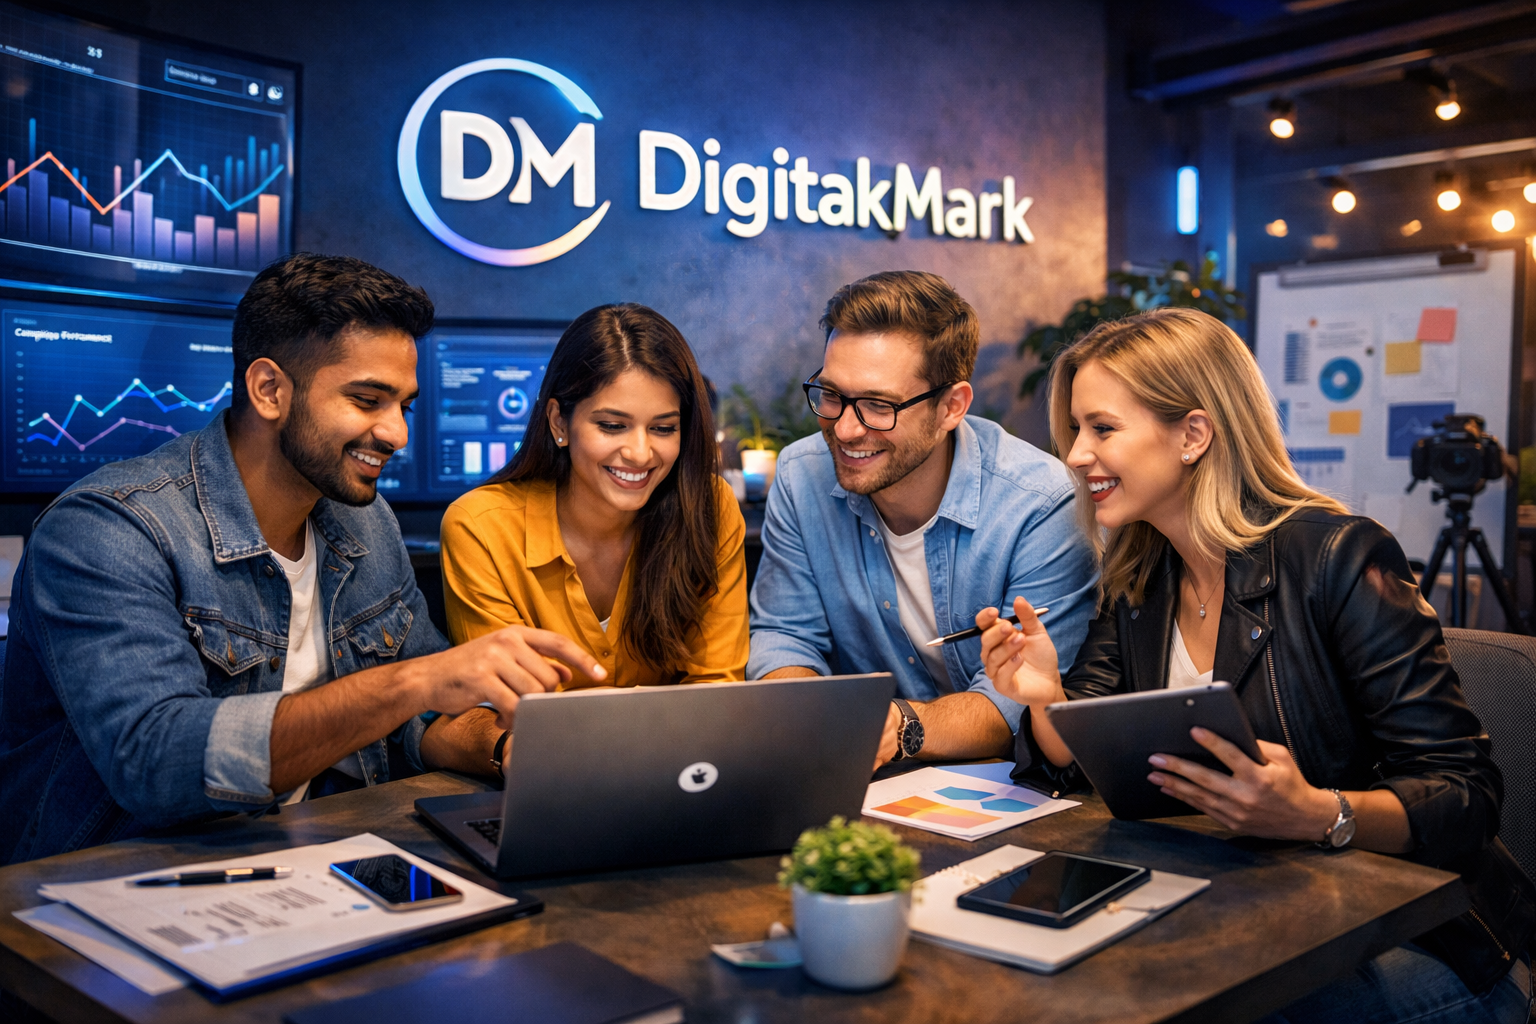
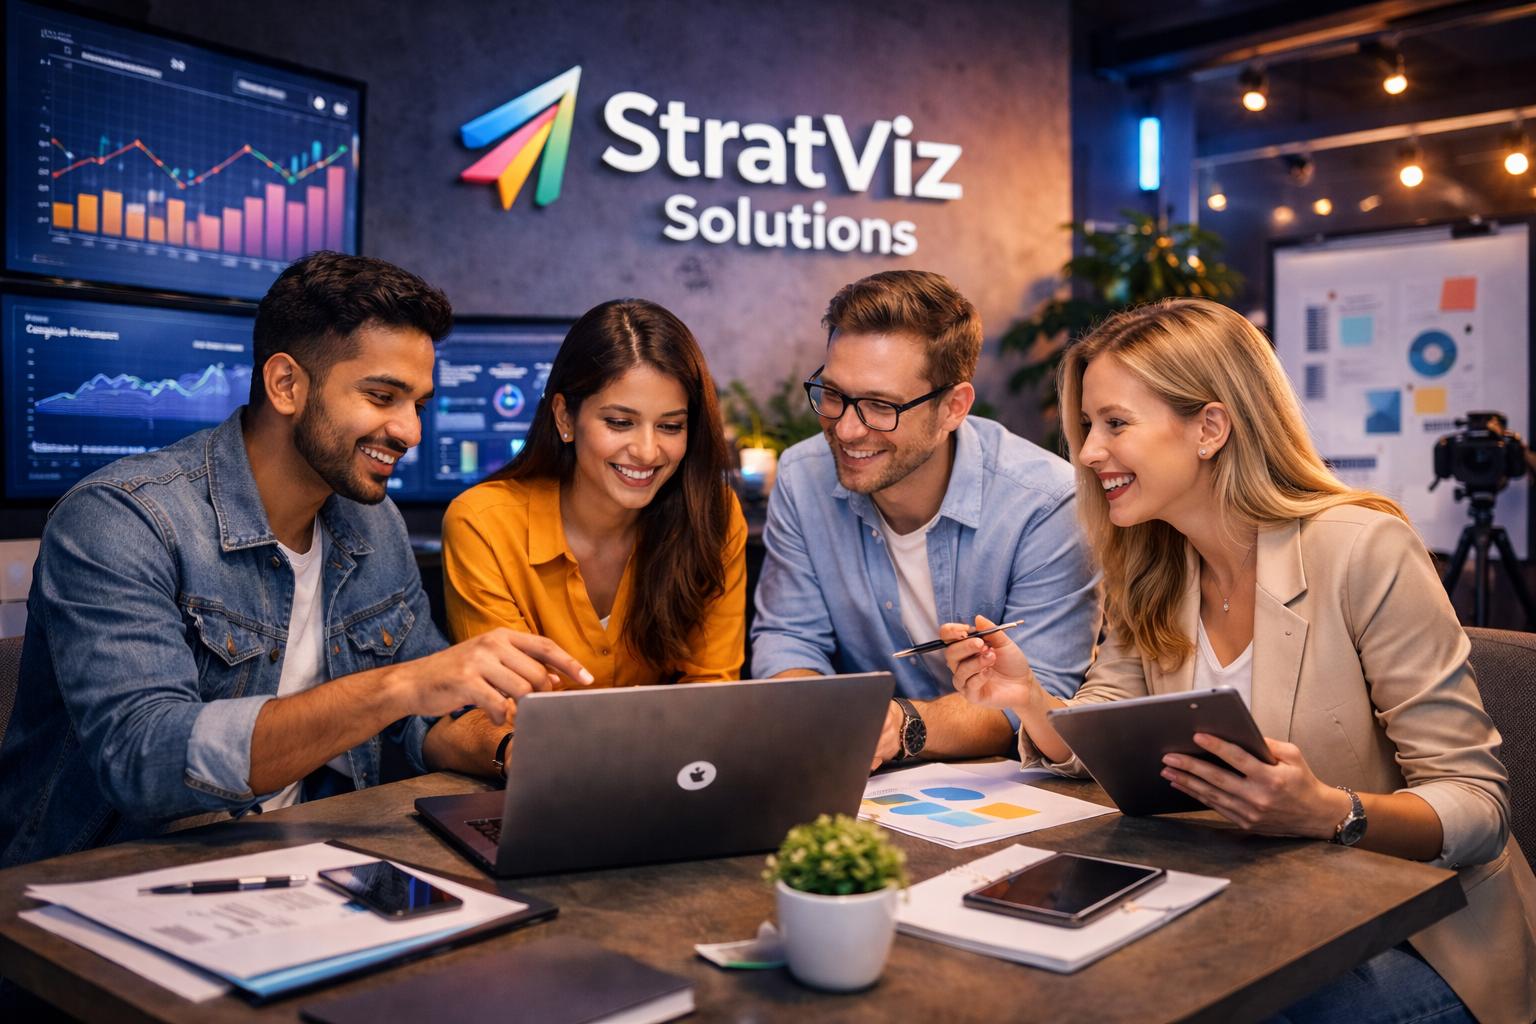
Update Image

diff --git a/src/components/Footer.jsx b/src/components/Footer.jsx
@@ -1,130 +1,159 @@
 import { motion } from "framer-motion";
 import {
-  FaInstagram,
-  FaLinkedin,
-  FaTwitter,
-  FaGithub
+    FaInstagram,
+    FaLinkedin,
+    FaFacebook,
+    FaYoutube
 } from "react-icons/fa";
 
 import {
-  HiOutlineMail,
-  HiOutlinePhone,
-  HiOutlineLocationMarker
+    HiOutlineMail,
+    HiOutlinePhone,
+    HiOutlineLocationMarker
 } from "react-icons/hi";
 
 export default function Footer() {
-  return (
-    <footer className="relative bg-black text-gray-400 pt-20 pb-10 px-6 overflow-hidden">
 
-      {/* 🔥 Background Glow */}
-      <div className="absolute inset-0 -z-10">
-        <div className="absolute top-0 left-20 w-80 h-80 bg-purple-500 opacity-20 blur-[140px] rounded-full"></div>
-        <div className="absolute bottom-0 right-20 w-80 h-80 bg-blue-500 opacity-20 blur-[140px] rounded-full"></div>
-      </div>
+    const socials = [
+        {
+            icon: FaInstagram,
+            link: "https://www.instagram.com/stratviz_solutions2026/",
+            hover: "hover:bg-gradient-to-tr from-pink-500 via-purple-500 to-yellow-500"
+        },
+        {
+            icon: FaFacebook,
+            link: "https://www.facebook.com/profile.php?id=61585329104927",
+            hover: "hover:bg-blue-600"
+        },
+        {
+            icon: FaLinkedin,
+            link: "https://www.linkedin.com/company/stratviz-solutions/posts/?feedView=all",
+            hover: "hover:bg-blue-500"
+        },
+        {
+            icon: FaYoutube,
+            link: "https://www.youtube.com/@StratvizSolutions",
+            hover: "hover:bg-red-600"
+        }
+    ];
 
-      <div className="max-w-7xl mx-auto grid md:grid-cols-4 gap-12">
+    return (
+        <footer className="relative bg-black text-gray-400 pt-20 pb-10 px-6 overflow-hidden">
 
-        {/* 🔥 Brand */}
-        <motion.div
-          initial={{ opacity: 0, y: 40 }}
-          whileInView={{ opacity: 1, y: 0 }}
-          transition={{ duration: 0.6 }}
-        >
-          <h2 className="text-white text-2xl font-bold mb-4">
-            DigitakMark
-          </h2>
+            {/* 🔥 Glow Background */}
+            <div className="absolute inset-0 -z-10">
+                <div className="absolute top-0 left-20 w-80 h-80 bg-purple-500 opacity-20 blur-[140px] rounded-full"></div>
+                <div className="absolute bottom-0 right-20 w-80 h-80 bg-blue-500 opacity-20 blur-[140px] rounded-full"></div>
+            </div>
 
-          <p className="text-sm leading-relaxed">
-            We craft high-converting websites & digital experiences that drive
-            real business growth.
-          </p>
+            <div className="max-w-7xl mx-auto grid md:grid-cols-4 gap-12">
 
-          {/* 🔥 Social Icons (INSANE HOVER) */}
-          <div className="flex gap-4 mt-6">
-            {[FaInstagram, FaLinkedin, FaTwitter, FaGithub].map((Icon, i) => (
-              <motion.a
-                key={i}
-                href="#"
-                target="_blank"
-                whileHover={{ scale: 1.2, y: -4 }}
-                whileTap={{ scale: 0.9 }}
-                className="p-3 rounded-full bg-white/10 backdrop-blur border border-white/20 hover:bg-gradient-to-r from-purple-500 to-pink-500 transition"
-              >
-                <Icon className="text-white" size={18} />
-              </motion.a>
-            ))}
-          </div>
-        </motion.div>
-
-        {/* 🔥 Quick Links */}
-        <motion.div
-          initial={{ opacity: 0, y: 40 }}
-          whileInView={{ opacity: 1, y: 0 }}
-          transition={{ duration: 0.7 }}
-        >
-          <h3 className="text-white mb-4 font-semibold">Quick Links</h3>
-          <ul className="space-y-2 text-sm">
-            {["services", "projects", "about", "contact"].map((item, i) => (
-              <li key={i}>
-                <a
-                  href={`#${item}`}
-                  className="hover:text-white transition hover:pl-1"
+                {/* 🔥 Brand */}
+                <motion.div
+                    initial={{ opacity: 0, y: 40 }}
+                    whileInView={{ opacity: 1, y: 0 }}
+                    transition={{ duration: 0.6 }}
                 >
-                  {item.charAt(0).toUpperCase() + item.slice(1)}
-                </a>
-              </li>
-            ))}
-          </ul>
-        </motion.div>
+                    <h2 className="text-white text-2xl font-bold mb-4">
+                        StratvizSolution
+                    </h2>
 
-        {/* 🔥 Services */}
-        <motion.div
-          initial={{ opacity: 0, y: 40 }}
-          whileInView={{ opacity: 1, y: 0 }}
-          transition={{ duration: 0.8 }}
-        >
-          <h3 className="text-white mb-4 font-semibold">Services</h3>
-          <ul className="space-y-2 text-sm">
-            <li>Web Development</li>
-            <li>UI/UX Design</li>
-            <li>SEO Optimization</li>
-            <li>Brand Strategy</li>
-          </ul>
-        </motion.div>
+                    <p className="text-sm leading-relaxed">
+                        We craft high-converting websites & digital experiences that drive
+                        real business growth.
+                    </p>
 
-        {/* 🔥 Contact */}
-        <motion.div
-          initial={{ opacity: 0, y: 40 }}
-          whileInView={{ opacity: 1, y: 0 }}
-          transition={{ duration: 0.9 }}
-        >
-          <h3 className="text-white mb-4 font-semibold">Contact</h3>
+                    {/* 🔥 Social Icons */}
+                    <div className="flex gap-4 mt-6">
+                        {socials.map((item, i) => {
+                            const Icon = item.icon;
+                            return (
+                                <motion.a
+                                    key={i}
+                                    href={item.link}
+                                    target="_blank"
+                                    rel="noopener noreferrer"
+                                    whileHover={{ scale: 1.2, y: -6 }}
+                                    whileTap={{ scale: 0.9 }}
+                                    className={`group p-3 rounded-full bg-white/10 backdrop-blur border border-white/20 transition duration-300 ${item.hover}`}
+                                >
+                                    <Icon className="text-white group-hover:scale-110 transition" size={18} />
+                                </motion.a>
+                            );
+                        })}
+                    </div>
+                </motion.div>
 
-          <ul className="space-y-4 text-sm">
-            <li className="flex items-center gap-2">
-              <HiOutlineMail size={18} /> info@digitakmark.com
-            </li>
-            <li className="flex items-center gap-2">
-              <HiOutlinePhone size={18} /> +91 98765 43210
-            </li>
-            <li className="flex items-center gap-2">
-              <HiOutlineLocationMarker size={18} /> India
-            </li>
-          </ul>
-        </motion.div>
-      </div>
+                {/* 🔥 Quick Links */}
+                <motion.div
+                    initial={{ opacity: 0, y: 40 }}
+                    whileInView={{ opacity: 1, y: 0 }}
+                    transition={{ duration: 0.7 }}
+                >
+                    <h3 className="text-white mb-4 font-semibold">Quick Links</h3>
+                    <ul className="space-y-2 text-sm">
+                        {["services", "projects", "about", "contact"].map((item, i) => (
+                            <li key={i}>
+                                <a
+                                    href={`#${item}`}
+                                    className="hover:text-white transition hover:pl-1"
+                                >
+                                    {item.charAt(0).toUpperCase() + item.slice(1)}
+                                </a>
+                            </li>
+                        ))}
+                    </ul>
+                </motion.div>
 
-      {/* 🔥 Divider */}
-      <div className="mt-16 border-t border-white/10"></div>
+                {/* 🔥 Services */}
+                <motion.div
+                    initial={{ opacity: 0, y: 40 }}
+                    whileInView={{ opacity: 1, y: 0 }}
+                    transition={{ duration: 0.8 }}
+                >
+                    <h3 className="text-white mb-4 font-semibold">Services</h3>
+                    <ul className="space-y-2 text-sm">
+                        <li>Web Development</li>
+                        <li>UI/UX Design</li>
+                        <li>SEO Optimization</li>
+                        <li>Brand Strategy</li>
+                    </ul>
+                </motion.div>
 
-      {/* 🔥 Bottom */}
-      <motion.div
-        initial={{ opacity: 0 }}
-        whileInView={{ opacity: 1 }}
-        className="text-center text-sm mt-6"
-      >
-        © 2026 DigitakMark — Crafted with ❤ by You
-      </motion.div>
-    </footer>
-  );
+                {/* 🔥 Contact */}
+                <motion.div
+                    initial={{ opacity: 0, y: 40 }}
+                    whileInView={{ opacity: 1, y: 0 }}
+                    transition={{ duration: 0.9 }}
+                >
+                    <h3 className="text-white mb-4 font-semibold">Contact</h3>
+
+                    <ul className="space-y-4 text-sm">
+                        <li className="flex items-center gap-2">
+                            <HiOutlineMail size={18} /> stratvizsolution@gmail.com
+                        </li>
+                        <li className="flex items-center gap-2">
+                            <HiOutlinePhone size={18} /> +91 70158 01724
+                        </li>
+                        <li className="flex items-center gap-2">
+                            <HiOutlineLocationMarker size={18} />
+                            Noida Sector 62, Block - C, Rajiv Vihar, UP
+                        </li>
+                    </ul>
+                </motion.div>
+            </div>
+
+            {/* 🔥 Divider */}
+            <div className="mt-16 border-t border-white/10"></div>
+
+            {/* 🔥 Bottom */}
+            <motion.div
+                initial={{ opacity: 0 }}
+                whileInView={{ opacity: 1 }}
+                className="text-center text-sm mt-6"
+            >
+                © 2026 StratvizSolution — Crafted with ❤ by You
+            </motion.div>
+        </footer>
+    );
 }

diff --git a/src/components/Contact.jsx b/src/components/Contact.jsx
@@ -36,13 +36,13 @@ export default function Contact() {
           {/* 🔥 Contact Info */}
           <div className="space-y-4 text-gray-300">
             <div className="flex items-center gap-3">
-              <Mail size={18} /> info@digitakmark.com
+              <Mail size={18} /> stratvizsolution@gmail.com
             </div>
             <div className="flex items-center gap-3">
-              <Phone size={18} /> +91 98765 43210
+              <Phone size={18} /> +91 70158 01724
             </div>
             <div className="flex items-center gap-3">
-              <MapPin size={18} /> India
+              <MapPin size={18} /> Noida Sector 62, Block - C, Rajiv Vihar, UP
             </div>
           </div>
         </motion.div>

diff --git a/src/components/Navbar.jsx b/src/components/Navbar.jsx
@@ -70,7 +70,7 @@ export default function Navbar() {
           
           {/* Logo */}
           <h1 className="text-xl md:text-2xl font-bold text-white tracking-wide">
-            DigitakMark
+            StratvizSolution
           </h1>
 
           {/* Desktop Menu */}
